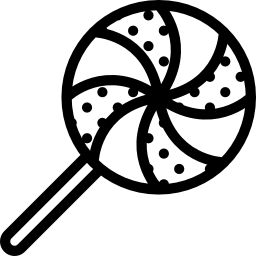
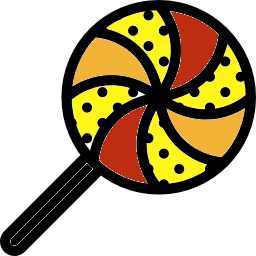
Cambiado icono de favorito Coloreados algunos iconos Añadido botón de ver en mapa Cambiado botón de favorito, solucionando issue #2

Changed region(s): [[0.2812, 0.0312, 0.9688, 0.7188], [0.0312, 0.625, 0.375, 0.9688]]

diff --git a/www/templates/eventDetail.html b/www/templates/eventDetail.html
@@ -6,8 +6,8 @@
     <img src="img/{{event.category}}.png">
     <span class="tituloEvento">{{event.title}} (ID #{{event.id}})</span>
     
-    <p><span  class="icon ion-calendar">   Día {{event.day}} - {{event.hour}}</p>
-     </i><p><span  class="icon ion-location">   {{event.place_text}}</p>
+    <p><span  class="icon ion-calendar"></span>   Día {{event.day}} - {{event.hour}}</p>
+     </i><p><span  class="icon ion-location"></span>   {{event.place_text}}</p>
   </div>
  
   <div class="item item-body">
@@ -15,23 +15,32 @@
     <p>
       {{event.description}}
     </p>
-    <!--<img class="full-image" src="img/mapa.png">-->
-    <p>
-       
-      <a href="#" class="subdued">{{participantNumber}} Asistentes</a>
 
-<span>MAPA: Lat {{event.place_lat}}, Long {{event.place_long}}</span>
-    </p>
   </div>
+      <div class="row">
+        <div class="col" ng-click="launchMap()"><button class="button button-block button-positive">
+          <span class="icon ion-map"></span> Ver en mapa
+        </button>
+        </div>
+        <div class="col" ng-click="favoriteEvent()"><button class="button button-block button-positive fav-button">
 
-  <div class="item tabs tabs-secondary tabs-icon-left">
+          <img ng-show="!isFav(event.id)" class="fav-star-central" src="img/icon-fav-off.png"></span>
+          <img ng-show="isFav(event.id)" class="fav-star-central" src="img/icon-fav.png"></span>
+
+          {{ textoFavorito }}
+        </button>
+        </div>
+        </div>
+
+  <!--<div class="item tabs tabs-secondary tabs-icon-left">
     <a class="tab-item" href="#" ng-click="favoriteEvent()">
       <img ng-show="isFav(event.id)" class="fav-star-left" src="img/fav.png">
       <img ng-hide="isFav(event.id)" class="fav-star-left" src="img/fav-off.png">
       <span class="fav-text">{{ textoFavorito }}</span>
+
     </a>
    
-  </div>
+  </div>-->
 
 </div>
   </ion-content>

diff --git a/www/js/controllers.js b/www/js/controllers.js
@@ -206,11 +206,11 @@ console.log($scope.day);
 
       if($scope.favorite){
         console.log("Favorito true: " + $scope.favorite);
-        $scope.textoFavorito = "Quitar favorito";
+        $scope.textoFavorito = "Favorito";
       }
       else{
         console.log("Favorito false: " + $scope.favorite);
-        $scope.textoFavorito = "Marcar favorito";
+        $scope.textoFavorito = "No favorito";
       }
 
 
@@ -224,6 +224,10 @@ console.log($scope.day);
 
 
 
+      $scope.launchMap = function(){
+        window.open("geo:" + $scope.event.place_long +"," + $scope.event.place_lat, "_system");
+      }
+
   EventService.get($scope.eventId,this.afterLoad);
 
       $scope.isFav = function(){
@@ -235,13 +239,13 @@ console.log($scope.day);
     if(!$scope.favorite){
       //Se pone como favorito
       FavoriteService.add($scope.eventId);
-      $scope.textoFavorito = "Quitar favorito"
+      $scope.textoFavorito = "Favorito"
       $ionicLoading.show({ template: 'Añadido a favoritos', noBackdrop: true, duration: 1000 });
     }
     else{
       //Se quita de favoritos
       FavoriteService.remove($scope.eventId);
-      $scope.textoFavorito = "Marcar favorito"
+      $scope.textoFavorito = "No favorito"
       $ionicLoading.show({ template: 'Borrado de favoritos', noBackdrop: true, duration: 1000 });
     }
     $scope.favorite = !$scope.favorite;

diff --git a/www/css/style.css b/www/css/style.css
@@ -16,9 +16,17 @@ overflow: initial;
 }
 
 
+.fav-star-central {
+    max-width: 25px;
+    padding-top:8px;
+    padding-bottom:0px;
+    margin-top:0px;
+
+}
 .fav-star {
     max-width: 40px;
     float: right;
+
 }
 
 .fav-star-left{
@@ -31,3 +39,12 @@ overflow: initial;
     overflow: initial;
     white-space: initial;
 }
+
+
+.fav-button{
+    max-height:10px;
+    padding-top: 0px;
+
+}
+
+
